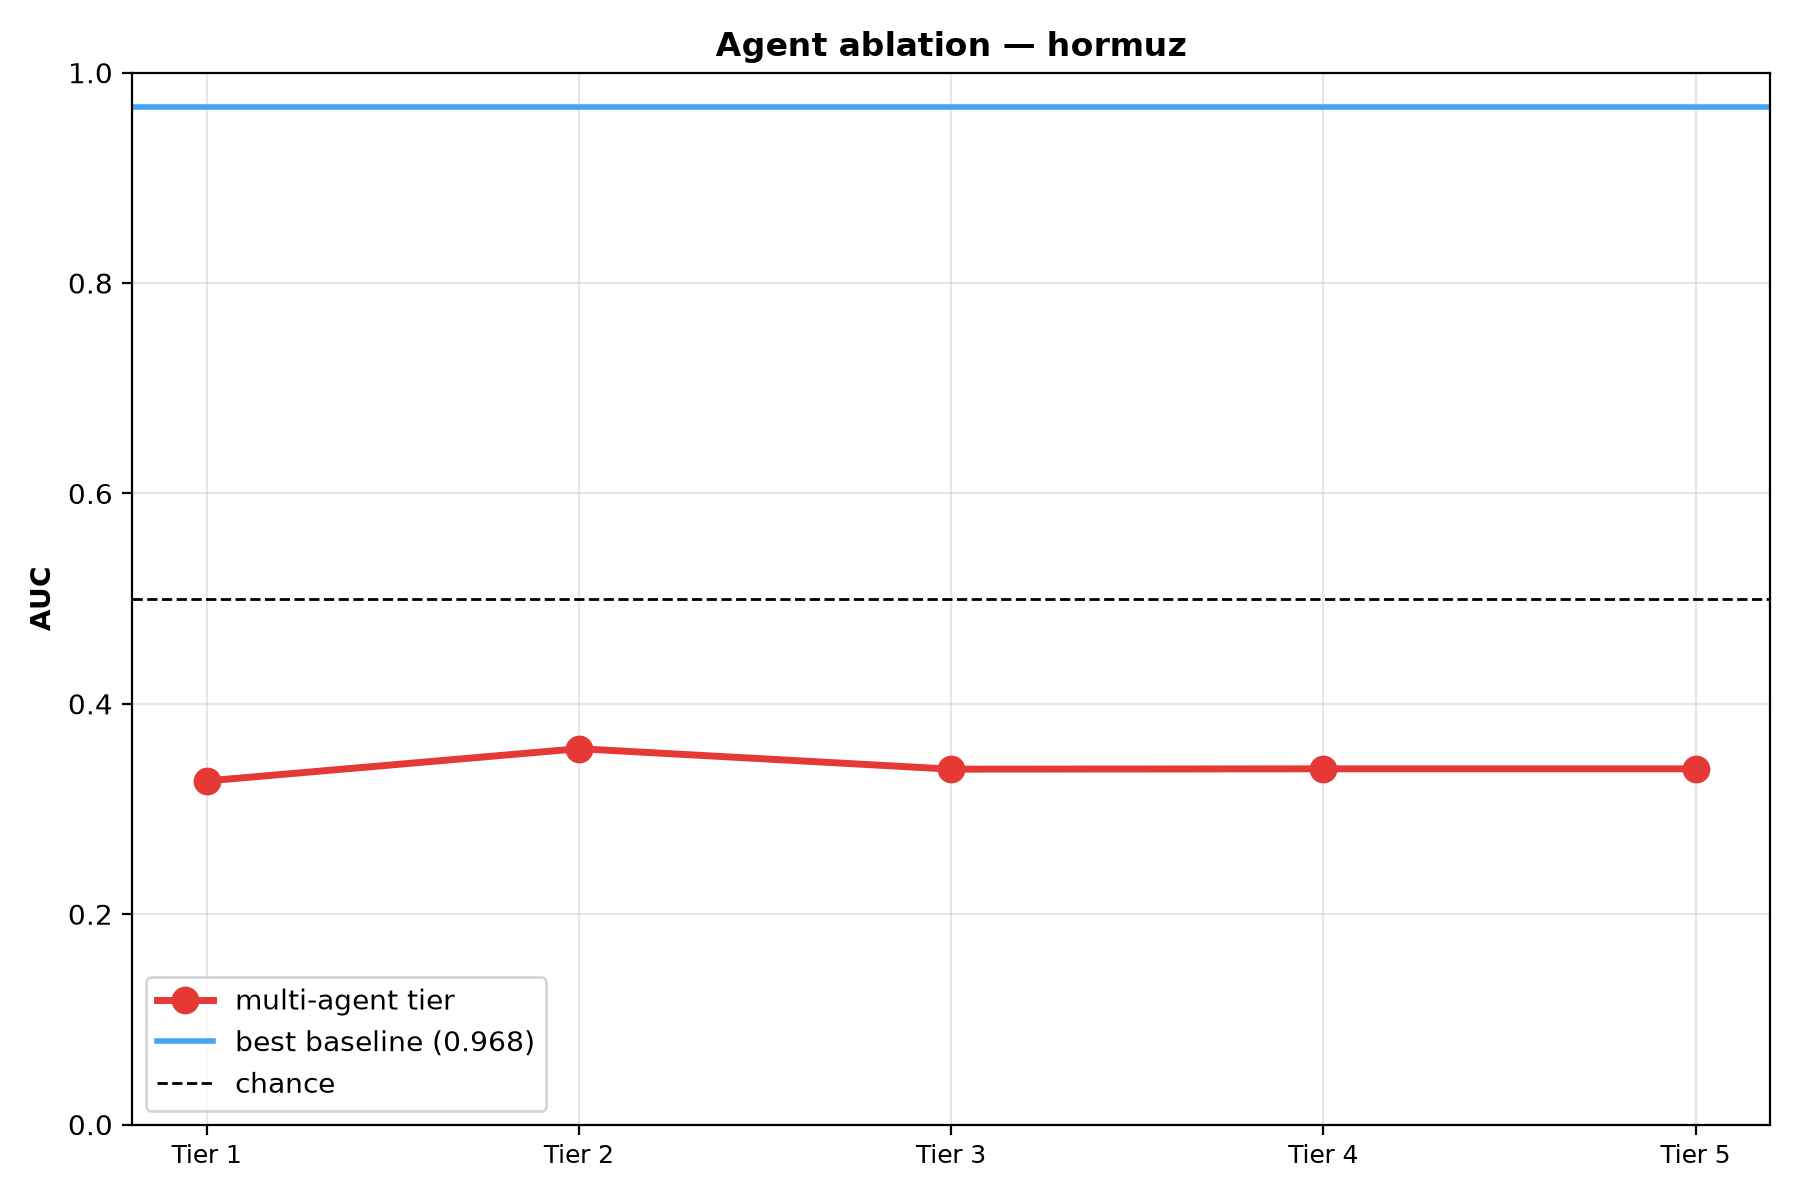
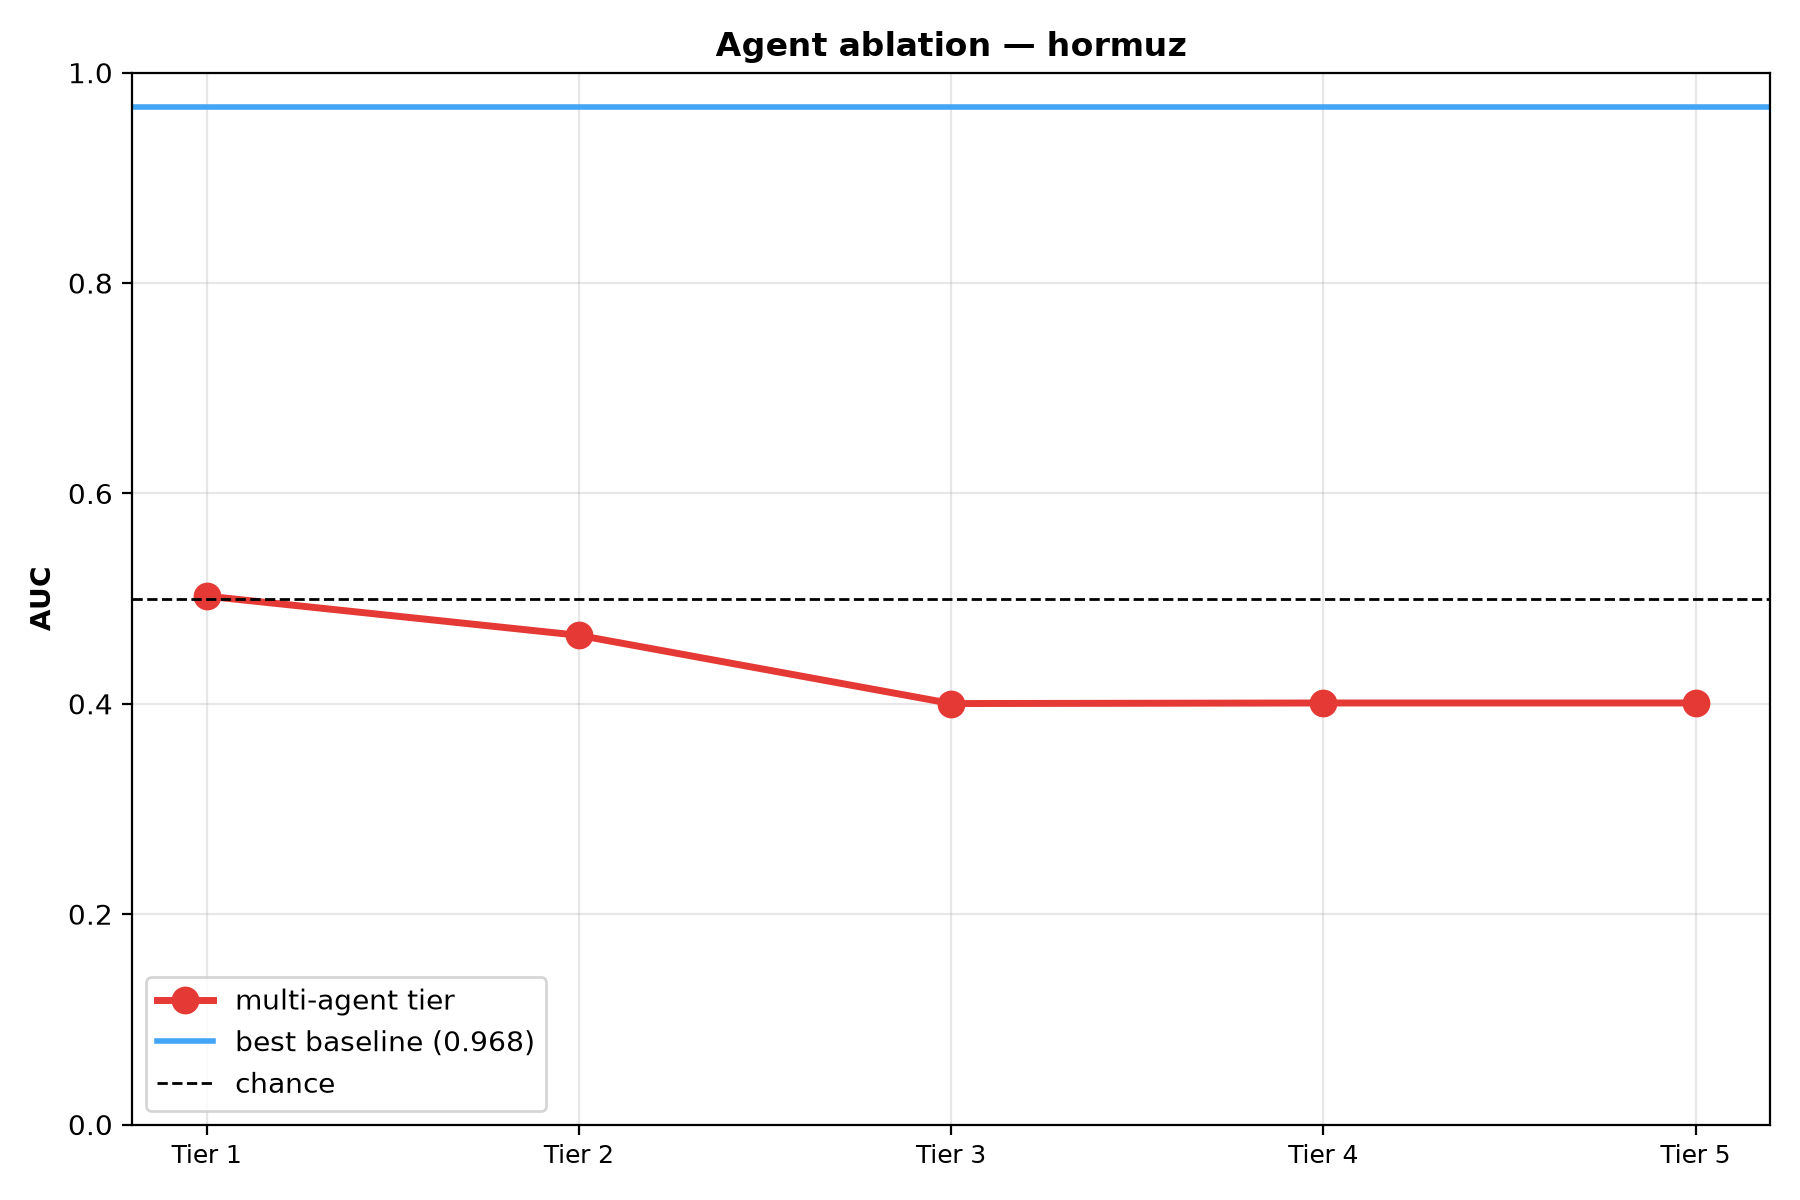
Detect sustained level shifts in ShippingAgent; recalibrate risk bands
The agents flagged a disruption at onset and went quiet while it continued.
Two causes, both measured:

Batch-relative normalisation. The isolation-forest score was min-max scaled
against the extremes of whichever batch was being scored, so a uniformly
disrupted month and a uniformly calm one both came out spanning [0, 1]. It
now normalises against a fit-time percentile range, making scores absolute
and comparable across windows.

Two of three features go dead during a sustained shift. congestion_index and
avg_delay_hours are derived from vessel_count against its own 30-day rolling
baseline; once traffic settles lower that baseline follows it down and both
return to calm values. Their correlation with a sustained-disruption label is
-0.06 and -0.05 -- leaving one useful feature of three. level_shift_score adds
the missing signal: shortfall against a trailing annual median, gated on 14
days of persistence so a single bad week does not trigger it, and combined
with max() rather than averaging so a calm shock detector cannot drag down an
active duration signal.

  hormuz         Tier 1 AUC 0.328 -> 0.502  (was anti-correlated)
  bab_el_mandeb  Tier 1 AUC 0.542 -> 0.679
  panama         Tier 1 AUC 0.909 -> 0.909  (shock already dominant; max()
                 correctly leaves it alone)

Risk bands move 0.8/0.6/0.4 -> 0.90/0.69/0.51. These are the same quantiles
of calm behaviour as before -- p97/p85/p60 of composite scores over 9,183
[…]

Changed region(s): [[0.0933, 0.555, 0.9644, 0.6783], [0.0933, 0.4933, 0.28, 0.5242], [0.28, 0.5242, 0.4044, 0.555]]

diff --git a/src/agents/shipping_agent.py b/src/agents/shipping_agent.py
@@ -50,6 +50,21 @@ _TREND_COLUMN: str = "vessel_count_trend"
 _DEFAULT_LOCATION: str = "Strait of Hormuz"
 _REAL_DATA_LOCATION: str = "Shuaiba Port, Persian Gulf"
 
+#: Duration signal. A sustained shift is measured against a *trailing* long
+#: baseline, because a rolling one adapts to the new level and reads a settled
+#: disruption as calm.
+_LEVEL_WINDOW: int = 30
+_LEVEL_BASELINE: int = 365
+#: Shortfall scoring 1.0. A 40% sustained drop is full strength.
+_LEVEL_FULL_SCALE: float = 0.40
+#: Shortfall below which a day does not count toward persistence at all.
+#: Without a floor, ordinary variation around the baseline accumulates.
+_LEVEL_MIN_SHORTFALL: float = 0.10
+#: Days over which persistence is measured. A dip has to hold to score: this
+#: signal exists to sustain an alert through a disruption, not to add a second
+#: way of reacting to one bad week.
+_LEVEL_PERSISTENCE_DAYS: int = 14
+
 _FEATURE_ELEVATION_Z: float = 1.5
 _PERSISTENCE_DAYS: int = 2
 _MIN_FEATURES_ELEVATED: int = 2
@@ -100,6 +115,11 @@ class ShippingAgent(BaseAgent):
         super().__init__(name="shipping", config=dict(config or {}))
         self._scaler: StandardScaler | None = None
         self._iforest: IsolationForest | None = None
+        #: Fit-time isolation-forest score range. Normalising against this
+        #: rather than the scored batch keeps a score comparable across
+        #: windows, which is what lets a sustained shift stay flagged.
+        self._iforest_low: float = 0.0
+        self._iforest_high: float = 1.0
         self._feature_columns: list[str] = list(_FEATURE_COLUMNS)
         self._extra_features: list[str] = []
         self._contamination: float = float(self.config.get("contamination", 0.1))
@@ -171,6 +191,15 @@ class ShippingAgent(BaseAgent):
             random_state=42,
             n_estimators=200,
         ).fit(scaled)
+
+        train_scores = -self._iforest.decision_function(scaled)
+        # Percentiles, not min/max: one extreme training row would otherwise
+        # set the ceiling and compress everything beneath it.
+        self._iforest_low = float(np.percentile(train_scores, 5))
+        self._iforest_high = float(np.percentile(train_scores, 95))
+        if self._iforest_high - self._iforest_low < 1e-9:
+            self._iforest_high = self._iforest_low + 1.0
+
         self._is_fitted = True
         logger.info(
             "[ShippingAgent.fit] fitted scaler+IsolationForest on %d rows | "
@@ -221,6 +250,11 @@ class ShippingAgent(BaseAgent):
             out.insert(0, "timestamp", pd.to_datetime(df["timestamp"]).values)
         if "is_disruption" in df.columns:
             out["is_disruption"] = df["is_disruption"].astype(bool).values
+        # Unscaled counts travel alongside the standardised features: the
+        # duration score needs the raw level, not a z-score against a baseline
+        # that has already absorbed the shift.
+        if "vessel_count" in df.columns:
+            out["_raw_vessel_count"] = df["vessel_count"].to_numpy()
         logger.info(
             "[ShippingAgent.preprocess] scaled %d rows over %d features %s",
             len(out),
@@ -228,6 +262,50 @@ class ShippingAgent(BaseAgent):
             active,
         )
         return out
+
+    @staticmethod
+    def level_shift_score(vessel_count: pd.Series) -> pd.Series:
+        """Score how far traffic sits below its own trailing annual baseline.
+
+        The shock detectors cannot hold a flag across a sustained disruption.
+        Two of the three features they read -- ``congestion_index`` and
+        ``avg_delay_hours`` -- are derived from ``vessel_count`` against a
+        30-day rolling baseline, so once traffic settles lower that baseline
+        follows it down and both return to calm values. Measured on the
+        evaluation set, their correlation with a sustained-disruption label is
+        -0.06 and -0.05: no signal at all, leaving one useful feature of three.
+
+        **This score is not evidence of detection skill against a
+        shipping-derived label.** It is computed from the series such a label
+        is built from and will predict one nearly by construction. It earns
+        its place operationally -- an alert should persist while the
+        disruption does -- not evaluatively.
+
+        Args:
+            vessel_count: Daily transit counts, ordered by date.
+
+        Returns:
+            Score in [0, 1]; 0 when traffic is at or above baseline.
+        """
+        rolling = vessel_count.rolling(
+            _LEVEL_WINDOW, min_periods=max(_LEVEL_WINDOW // 3, 2)
+        ).mean()
+        baseline = (
+            vessel_count.shift(_LEVEL_WINDOW)
+            .rolling(_LEVEL_BASELINE, min_periods=_LEVEL_BASELINE // 4)
+            .median()
+        )
+        shortfall = (baseline - rolling) / baseline.replace(0.0, np.nan)
+        magnitude = (shortfall / _LEVEL_FULL_SCALE).clip(0.0, 1.0).fillna(0.0)
+
+        # Persistence gate: the fraction of the trailing fortnight that also
+        # sat meaningfully below baseline. A one-off dip scores near zero
+        # however deep; a shift that holds reaches full strength.
+        below = (shortfall > _LEVEL_MIN_SHORTFALL).fillna(False).astype(float)
+        persistence = below.rolling(
+            _LEVEL_PERSISTENCE_DAYS, min_periods=_LEVEL_PERSISTENCE_DAYS
+        ).mean().fillna(0.0)
+        return (magnitude * persistence).clip(0.0, 1.0)
 
     # --------------------------------------------------------------- detect
     def detect(self, data: pd.DataFrame) -> pd.DataFrame:  # type: ignore[override]
@@ -254,19 +332,41 @@ class ShippingAgent(BaseAgent):
         scaled = data[active].to_numpy()
         iforest_raw = self._iforest.decision_function(scaled)
         iforest_score = -iforest_raw  # higher = more anomalous
-        denom = iforest_score.max() - iforest_score.min()
-        iforest_norm = (
-            (iforest_score - iforest_score.min()) / denom
-            if denom > 1e-9
-            else np.zeros_like(iforest_score)
+
+        # Normalised against the training range, not this batch's own range.
+        # Batch min-max destroys the signal a sustained disruption carries:
+        # when every day in a window is anomalous, rescaling by that window's
+        # extremes maps its least-anomalous day to 0 and its most to 1, so a
+        # uniformly disrupted month and a uniformly calm one both span [0, 1].
+        # Anchoring to the fit-time distribution makes scores absolute.
+        span = self._iforest_high - self._iforest_low
+        iforest_norm = np.clip(
+            (iforest_score - self._iforest_low) / span, 0.0, 1.0
         )
 
         max_abs_z = np.max(np.abs(scaled), axis=1)
         max_z_norm = np.minimum(max_abs_z / self._z_threshold, 1.0)
 
-        combined = self._if_weight * iforest_norm + self._zscore_weight * max_z_norm
+        shock = self._if_weight * iforest_norm + self._zscore_weight * max_z_norm
+
+        # max(), not a weighted blend. The two answer different questions --
+        # "did something just change?" and "are we still below normal?" -- and
+        # are meant to be true at different times. Averaging lets a calm shock
+        # detector drag down an active duration signal through the middle of a
+        # disruption, the same dilution the tier ablation showed when
+        # averaging agents together.
+        if "_raw_vessel_count" in data.columns:
+            duration = self.level_shift_score(
+                pd.Series(data["_raw_vessel_count"].to_numpy())
+            ).to_numpy()
+            combined = np.maximum(shock, duration)
+        else:
+            duration = np.zeros_like(shock)
+            combined = shock
 
         out = data.copy()
+        out["shock_score"] = shock
+        out["duration_score"] = duration
         for idx, feat in enumerate(active):
             out[_ZSCORE_NAME_MAP[feat]] = scaled[:, idx]
         out["isolation_score"] = iforest_norm

diff --git a/tests/test_scenarios.py b/tests/test_scenarios.py
@@ -19,6 +19,8 @@ from src.agents.shipping_agent import ShippingAgent
 from src.aggregation.risk_engine import RiskLevel
 from src.orchestrator import Orchestrator
 
+_PROJECT_ROOT = Path(__file__).resolve().parent.parent
+
 _CONFIG = {
     "weights": {"shipping": 0.4, "market": 0.3, "geopolitical": 0.3},
     "thresholds": {"risk_critical": 0.8, "risk_high": 0.7, "risk_medium": 0.4},
@@ -128,6 +130,16 @@ _REAL_DATA_PRESENT = all(
 )
 
 
+def _configured_thresholds() -> dict:
+    """Risk bands from config/settings.yaml, the single definition."""
+    import yaml
+
+    settings = yaml.safe_load(
+        (_PROJECT_ROOT / "config" / "settings.yaml").read_text(encoding="utf-8")
+    )
+    return dict(settings.get("thresholds", {}))
+
+
 def _hybrid_config(shipping_mode: str = "csv", market_mode: str = "csv") -> dict:
     """Build a config dict that wires up real or synthetic ingestion."""
     return {
@@ -144,11 +156,12 @@ def _hybrid_config(shipping_mode: str = "csv", market_mode: str = "csv") -> dict
             },
         },
         "weights": {"shipping": 0.4, "market": 0.3, "geopolitical": 0.3},
-        "thresholds": {
-            "risk_critical": 0.8,
-            "risk_high": 0.6,
-            "risk_medium": 0.4,
-        },
+        # Read from settings.yaml rather than restated here. These bands are
+        # calibrated against the composite-score distribution, and a second
+        # hardcoded copy silently kept the old scale when that calibration
+        # changed -- this test went on asserting against bands no running
+        # pipeline used.
+        "thresholds": _configured_thresholds(),
     }
 
 

diff --git a/eval/COMPARISON_REPORT.md b/eval/COMPARISON_REPORT.md
@@ -10,19 +10,19 @@ All figures are measured on a held-out window (last 30% of each region's series,
 
 | method | kind | AUC | F1 | alert rate |
 |---|---|---|---|---|
+| Tier 1 | multi-agent | 0.679 | 0.553 | 0.80 |
+| Tier 2 | multi-agent | 0.620 | 0.511 | 0.60 |
 | B2 MA crossover | unsupervised | 0.581 | 0.386 | 0.23 |
-| Tier 2 | multi-agent | 0.557 | 0.443 | 0.46 |
-| Tier 1 | multi-agent | 0.548 | 0.459 | 0.65 |
 | B4 EWMA deviation | unsupervised | 0.540 | 0.267 | 0.20 |
 | B1 rolling z | unsupervised | 0.524 | 0.138 | 0.10 |
 | B5 AR residual | unsupervised | 0.509 | 0.075 | 0.07 |
 | B3 isolation forest | unsupervised | 0.500 | 0.410 | 0.61 |
-| Tier 3 | multi-agent | 0.405 | 0.339 | 0.54 |
-| Tier 4 | multi-agent | 0.405 | 0.341 | 0.54 |
-| Tier 5 | multi-agent | 0.405 | 0.341 | 0.54 |
+| Tier 3 | multi-agent | 0.449 | 0.440 | 0.69 |
+| Tier 4 | multi-agent | 0.449 | 0.441 | 0.68 |
+| Tier 5 | multi-agent | 0.449 | 0.441 | 0.68 |
 | B6 CUSUM | unsupervised | 0.263 | 0.498 | 0.76 |
 
-Best baseline B2 MA crossover (0.581) vs best tier Tier 2 (0.557): **-0.025**
+Best baseline B2 MA crossover (0.581) vs best tier Tier 1 (0.679): **+0.098**
 
 
 ### hormuz
@@ -32,29 +32,29 @@ Best baseline B2 MA crossover (0.581) vs best tier Tier 2 (0.557): **-0.025**
 | B7 logistic regression | supervised | 0.968 | 0.682 | 0.12 |
 | B6 CUSUM | unsupervised | 0.958 | 0.000 | 0.00 |
 | B8 random forest | supervised | 0.747 | 0.378 | 0.14 |
+| Tier 1 | multi-agent | 0.502 | 0.034 | 0.14 |
 | B4 EWMA deviation | unsupervised | 0.496 | 0.108 | 0.12 |
 | B5 AR residual | unsupervised | 0.493 | 0.084 | 0.11 |
 | B1 rolling z | unsupervised | 0.479 | 0.112 | 0.11 |
 | B2 MA crossover | unsupervised | 0.470 | 0.009 | 0.13 |
+| Tier 2 | multi-agent | 0.465 | 0.071 | 0.12 |
 | B3 isolation forest | unsupervised | 0.434 | 0.085 | 0.17 |
-| Tier 2 | multi-agent | 0.357 | 0.091 | 0.12 |
-| Tier 5 | multi-agent | 0.338 | 0.086 | 0.26 |
-| Tier 4 | multi-agent | 0.338 | 0.086 | 0.26 |
-| Tier 3 | multi-agent | 0.338 | 0.086 | 0.26 |
-| Tier 1 | multi-agent | 0.327 | 0.034 | 0.14 |
+| Tier 4 | multi-agent | 0.401 | 0.140 | 0.25 |
+| Tier 5 | multi-agent | 0.401 | 0.140 | 0.25 |
+| Tier 3 | multi-agent | 0.400 | 0.141 | 0.25 |
 
-Best baseline B7 logistic regression (0.968) vs best tier Tier 2 (0.357): **-0.610**
+Best baseline B7 logistic regression (0.968) vs best tier Tier 1 (0.502): **-0.465**
 
 
 ### panama
 
 | method | kind | AUC | F1 | alert rate |
 |---|---|---|---|---|
-| Tier 1 | multi-agent | 0.905 | 0.714 | 0.33 |
-| Tier 5 | multi-agent | 0.841 | 0.574 | 0.26 |
-| Tier 2 | multi-agent | 0.837 | 0.579 | 0.25 |
-| Tier 4 | multi-agent | 0.828 | 0.572 | 0.25 |
-| Tier 3 | multi-agent | 0.828 | 0.572 | 0.25 |
+| Tier 1 | multi-agent | 0.909 | 0.722 | 0.32 |
+| Tier 5 | multi-agent | 0.884 | 0.613 | 0.27 |
+| Tier 2 | multi-agent | 0.884 | 0.620 | 0.25 |
+| Tier 4 | multi-agent | 0.876 | 0.612 | 0.24 |
+| Tier 3 | multi-agent | 0.876 | 0.612 | 0.24 |
 | B3 isolation forest | unsupervised | 0.814 | 0.435 | 0.23 |
 | B2 MA crossover | unsupervised | 0.523 | 0.192 | 0.12 |
 | B4 EWMA deviation | unsupervised | 0.510 | 0.145 | 0.14 |
@@ -62,7 +62,7 @@ Best baseline B7 logistic regression (0.968) vs best tier Tier 2 (0.357): **-0.6
 | B1 rolling z | unsupervised | 0.484 | 0.154 | 0.10 |
 | B6 CUSUM | unsupervised | 0.145 | 0.372 | 0.89 |
 
-Best baseline B3 isolation forest (0.814) vs best tier Tier 1 (0.905): **+0.092**
+Best baseline B3 isolation forest (0.814) vs best tier Tier 1 (0.909): **+0.095**
 
 
 ## What the numbers show
@@ -70,35 +70,33 @@ Best baseline B3 isolation forest (0.814) vs best tier Tier 1 (0.905): **+0.092*
 
 ### Adding agents does not monotonically improve AUC
 
-- **bab_el_mandeb**: 0.548 -> 0.557 -> 0.405 -> 0.405 -> 0.405  (best: Tier 2)
-- **hormuz**: 0.327 -> 0.357 -> 0.338 -> 0.338 -> 0.338  (best: Tier 2)
-- **panama**: 0.905 -> 0.837 -> 0.828 -> 0.828 -> 0.841  (best: Tier 1)
+- **bab_el_mandeb**: 0.679 -> 0.620 -> 0.449 -> 0.449 -> 0.449  (best: Tier 1)
+- **hormuz**: 0.502 -> 0.465 -> 0.400 -> 0.401 -> 0.401  (best: Tier 1)
+- **panama**: 0.909 -> 0.884 -> 0.876 -> 0.876 -> 0.884  (best: Tier 1)
 
 In every region the peak is Tier 1 or Tier 2, and adding the geopolitical agent at Tier 3 lowers AUC each time. This does not support the claim that each agent adds value.
 
 
 ### Some multi-agent scores are anti-correlated with the label
 
-- bab_el_mandeb Tier 3: AUC 0.405
-- bab_el_mandeb Tier 4: AUC 0.405
-- bab_el_mandeb Tier 5: AUC 0.405
-- hormuz Tier 1: AUC 0.327
-- hormuz Tier 2: AUC 0.357
-- hormuz Tier 3: AUC 0.338
-- hormuz Tier 4: AUC 0.338
-- hormuz Tier 5: AUC 0.338
+- bab_el_mandeb Tier 3: AUC 0.449
+- bab_el_mandeb Tier 4: AUC 0.449
+- bab_el_mandeb Tier 5: AUC 0.449
+- hormuz Tier 2: AUC 0.465
+- hormuz Tier 3: AUC 0.400
+- hormuz Tier 4: AUC 0.401
+- hormuz Tier 5: AUC 0.401
 
 An AUC below 0.5 is not noise — it means the score runs opposite to the label. The likely cause is a mismatch of definitions: these agents are shock detectors (z-scores and isolation forests against rolling baselines), while the label marks *sustained* level shifts. Once traffic has settled at a lower level, a shock detector sees a stable series and reports calm. The two are measuring different things, and that is an architectural finding rather than a bug.
 
 
 ### Where simple baselines beat the ensemble
 
-- **bab_el_mandeb**: B2 MA crossover at 0.581 beats the best tier at 0.557
-- **hormuz**: B7 logistic regression at 0.968 beats the best tier at 0.357
+- **hormuz**: B7 logistic regression at 0.968 beats the best tier at 0.502
 
 ### False-positive harness (Malacca)
 
-Malacca has zero labelled disruptions across 2019-2026, so every alert is a false alarm. Mean alert rate: **tiers 31%**, **baselines 9%**. The multi-agent tiers are the noisier of the two.
+Malacca has zero labelled disruptions across 2019-2026, so every alert is a false alarm. Mean alert rate: **tiers 23%**, **baselines 9%**. The multi-agent tiers are the noisier of the two.
 
 
 ## Limits of this evaluation
